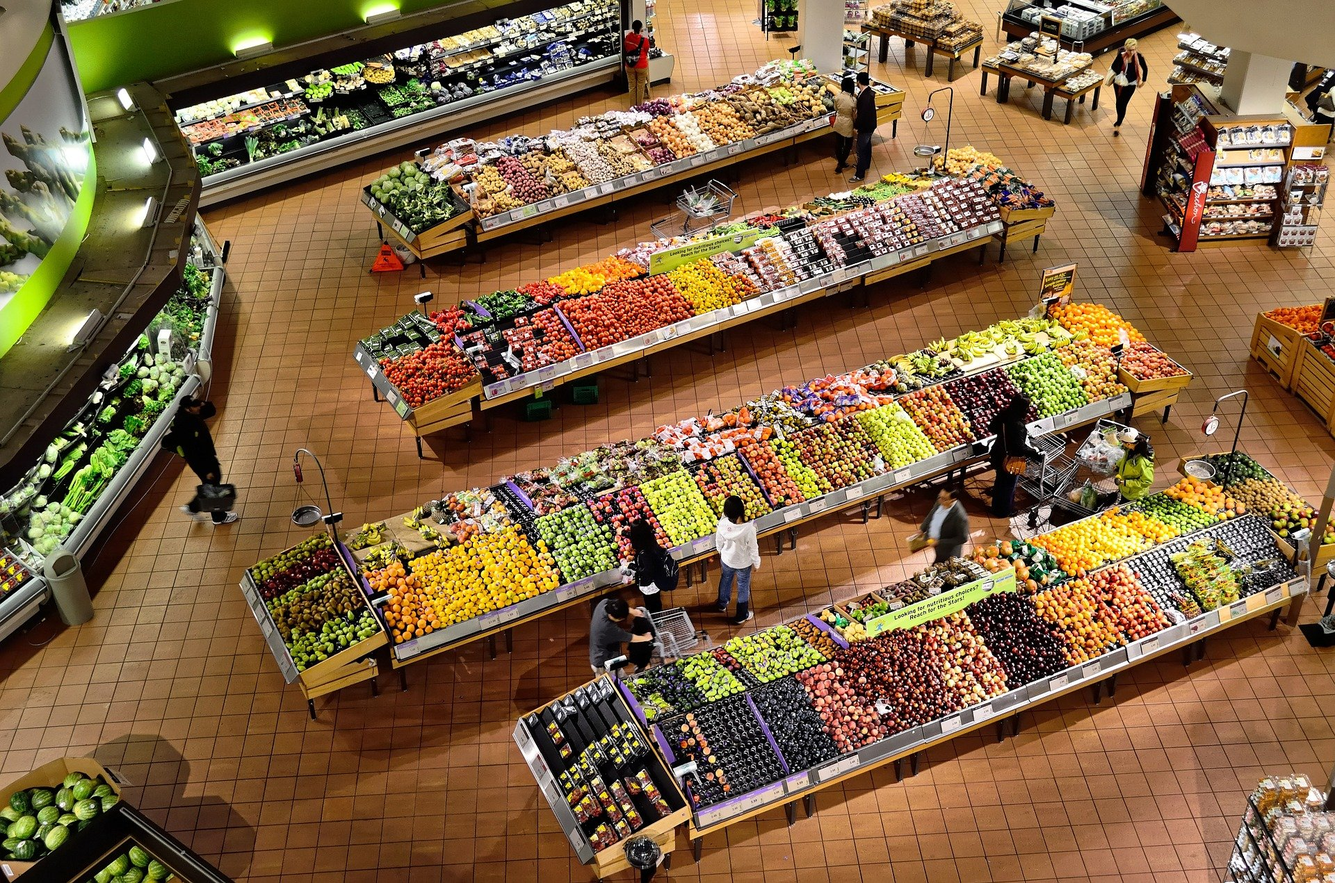
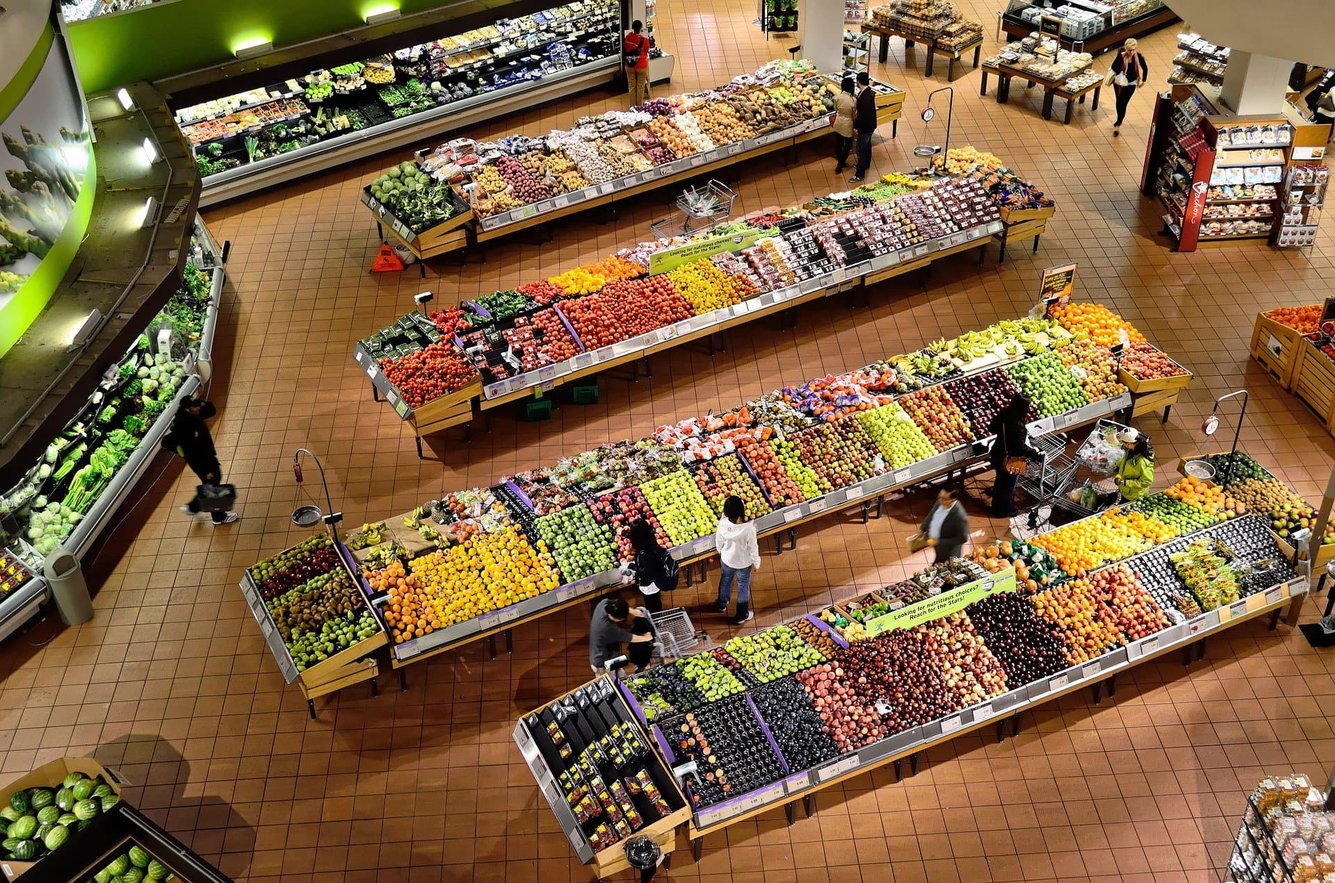
Optimize images, remove css class, and cleanup image tag

diff --git a/app/frontend/stylesheets/custom.scss b/app/frontend/stylesheets/custom.scss
@@ -93,10 +93,6 @@ hr {
   max-width: 20rem;
 }
 
-.about {
-  //max-width: 26rem;
-}
-
 form.button_to {
   width: 100%;
 }
